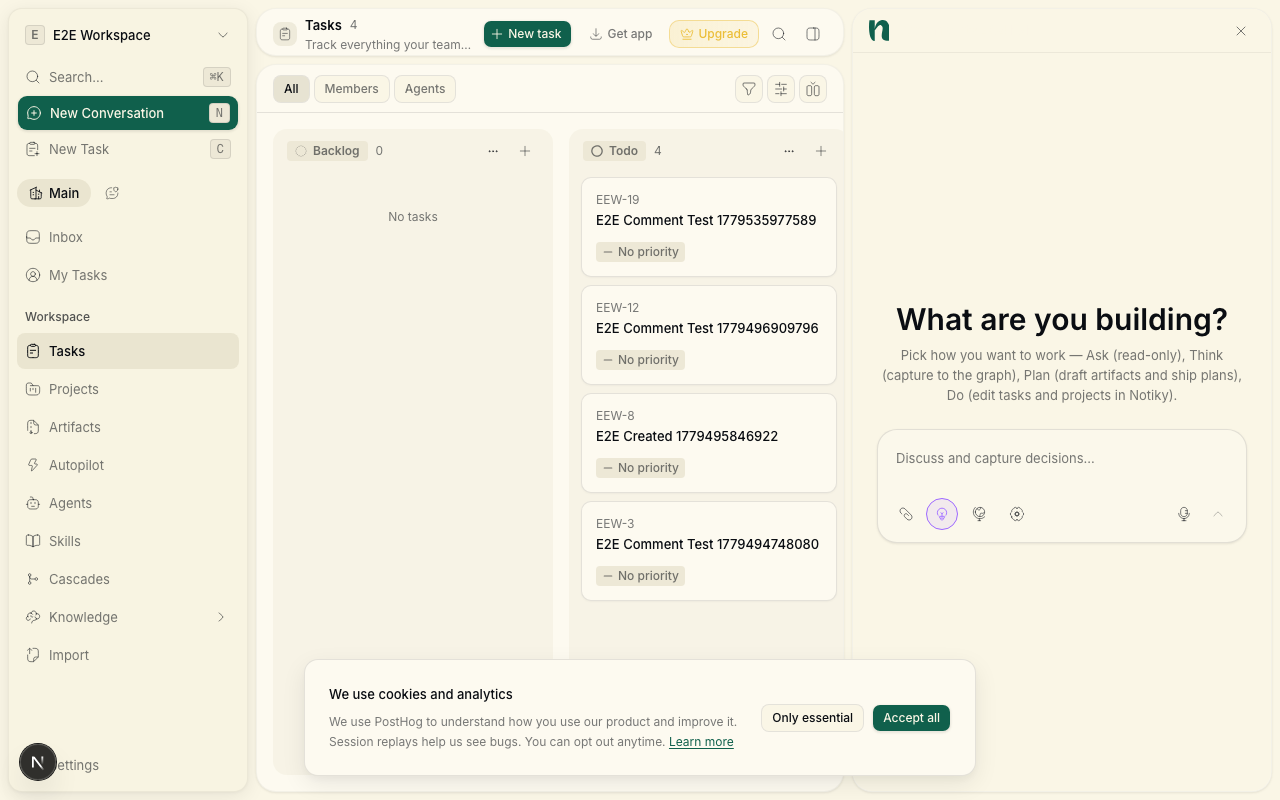
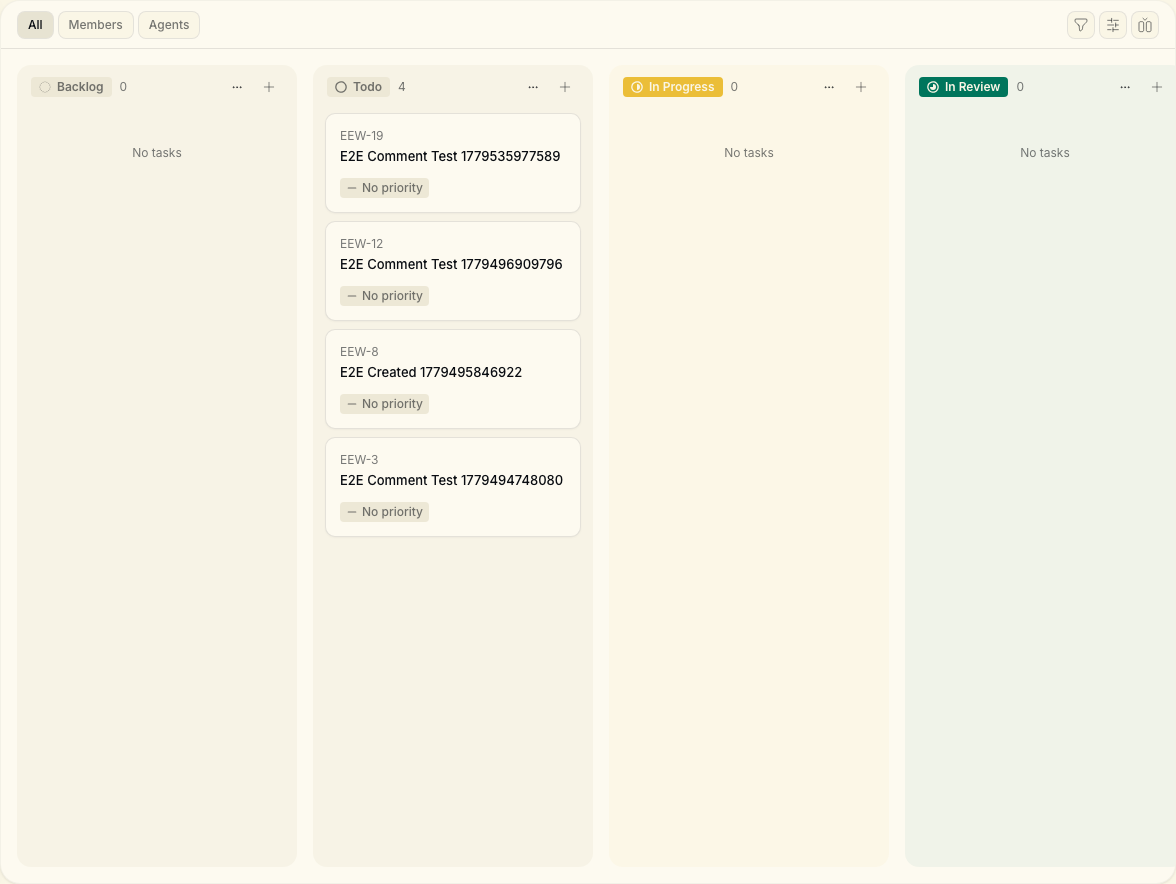
Replace noisy docs screenshots with clean main-panel crops
Regenerate PNGs without assistant rail, cookie banner, or E2E test
titles — focused on board, task detail, and dialog content only.

diff --git a/SHOTS.md b/SHOTS.md
@@ -2,7 +2,15 @@
 
 Real product screenshots — not stock art. Run after `make dev` in `notiky-app/`.
 
-**Viewport:** 1280×800 (set in the Playwright spec).
+**Viewport:** 1440×900. Captures crop to the center `main` panel (no sidebar, no assistant rail, no cookie banner).
+
+**Clean capture rules:**
+
+- Dismiss cookie banner (`notiky_analytics_consent=denied`)
+- Close assistant rail (`Cmd/Ctrl+.`) before page shots
+- Dialog shots: dialog content only (New agent, Settings → Runtimes)
+- Workspace switcher: dropdown menu only
+- Realistic task copy (no `Docs screenshot…` test strings)
 
 ```bash
 # Terminal 1
